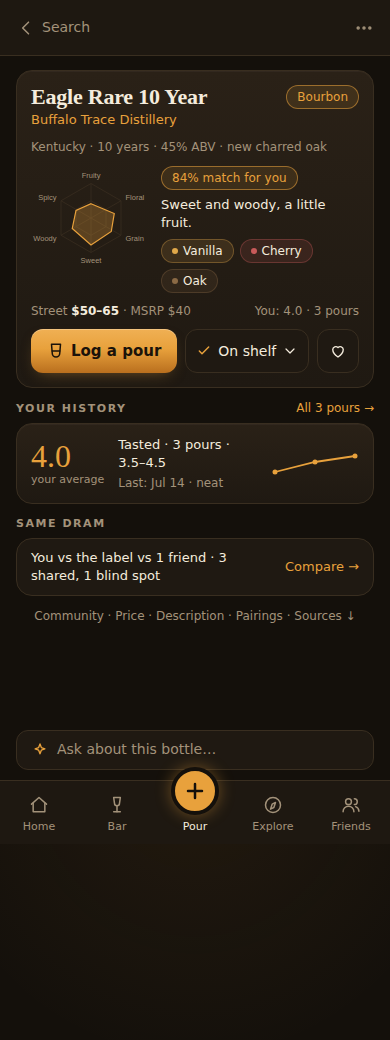
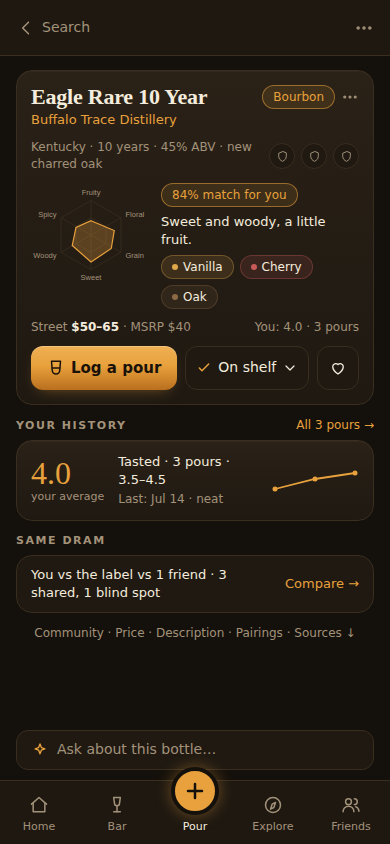
docs: round-3 UX brief with live vs storyboard screenshots; decisions D13–D21
Adds docs/plans/2026-09-ux-refinement-brief.md: the owner's third-pass
notes turned into per-area decisions, before/after screenshots (live
baselines beside storyboard boards) and action items with files and
acceptance for the implementing agent.

STORYBOARD.md §0 gains D13–D21 (profile order without "This month" or
greyed crests, breakdown-card ⋯ menu, Friends header/search redesign,
live camera in the pour sheet with auto-pause, the app's own wheel,
slider pour size, Friends as default visibility under More, a Tags row,
and My Bar kept but slimmed). Profile, pour sheet, Friends and bottle
boards re-rendered to match.

Claude-Session: https://claude.ai/code/session_01Jh9MtzXPHPHFKp7wZnEU3h

diff --git a/docs/STORYBOARD.md b/docs/STORYBOARD.md
@@ -24,6 +24,17 @@ The visual style does not change. DESIGN.md's tokens, recipes and rules all stan
 | D10 | **Explore is a dedicated tab**, and Home links to it. | (agreed with v1) |
 | D11 | **The palate ring on avatars has eight equal segments, one per flavor family, each faded toward the track when that family is not part of the person's palate.** Intensity is encoded by fade, not by segment length. | v2's first draft, which varied arc length |
 | D12 | **The profile shows the full two-tier palate wheel** (as today), with the ring avatar in its centre and the description and signature-descriptor chips beneath it. **"This month" stays on the Home dashboard as it is now**; it is not a profile block. | v2's first draft, which shrank the wheel and moved the month review to the profile |
+| D13 | **Profile order:** identity → palate card → **Sharing · Settings** → **Passport (earned crests only, no greyed "next")** → **Friends card** (several friends with ring avatars) → **Journal card** (one card, "Open journal →"). | D8's greyed next crests and the two-row journal summary |
+| D14 | **The bottle breakdown card has a ⋯ menu** for everything beyond Log a pour · Add to bar / On shelf · Wishlist: edit shelf details, mark finished, remove, share, compare, report a catalog error. Same menu behind the bottle page header ⋯. | — |
+| D15 | **Friends page:** no "Find people / How you're found" tabs. One search field with a **scan-code button at its end**; **Show my code** to the right of the "Friends" header (and on the profile's Friends card); **How you're found** behind a settings icon on Friends and under Profile → Settings → Privacy. | v2's first Friends board |
+| D16 | **The camera stays live in the pour sheet's bottle slot while you log** (thumbnail beside the bottle row once identified, so you can snap the glass or label) and **pauses automatically after ~2 minutes**. A captured photo attaches to the pour. | — |
+| D17 | **The flavor wheel in the sheet is the app's existing `FlavorWheelInput`, unchanged.** The board's wheel drawing is a stand-in. | the board's simplified wheel |
+| D18 | **Pour size keeps today's slider, made sleeker** (thinner track, smaller tick labels, value in the section label). | v2's chip row |
+| D19 | **Default pour visibility is Friends** for new accounts. "Who can see this" collapses under a **More ▾** disclosure at the bottom of the sheet. | Only me default; visibility as a top-level row |
+| D20 | **A Tags row sits directly under pour size** with quick-select tags (Campfire · Dinner · With friends · Tasting · …) plus "+ add". The free-text People field moves under More ▾ as "With…". Tags are private pour data stored in `pours.context.tags`. | the People chip in the serving row |
+| D21 | **My Bar keeps the live page's structure over the board's**, with these changes: a much slimmer top (compact stats line, flavor map collapsed to one line with "Open flavor map →"), a slimmer fill spine, a **Pour** quick action per row, plus sort and shelf search. First bottle visible without scrolling. | v2's Bar board as a whole |
+
+The round-3 brief with before/after screenshots and action items per area is [docs/plans/2026-09-ux-refinement-brief.md](./plans/2026-09-ux-refinement-brief.md).
 
 Open questions the owner has not decided (implementing agent: pick the recommended default, flag it in the PR):
 
@@ -137,9 +148,10 @@ The sheet opens **fully expanded** from ＋, from any Pour button, from the toni
 │        ╭────────╮                  │     tap a wedge → leaves; hold → intensity;
 │       │  wheel   │                 │     drag; the signature interaction
 │        ╰────────╯                  │
-│ Neat  Rocks  Splash  Cocktail  👤  │  5. SERVING + PEOPLE
-│ Pour size   15 · 25 · 30 · 45 · 60 │  6. SIZE (compact chips, not a slider headline)
-│ Who can see  🔒 Only me · Friends · Followers · Public │  7. VISIBILITY quick tags (D9)
+│ Neat  Rocks  Splash  Cocktail      │  5. SERVING
+│ Pour size · 45 ml  ──────●──────    │  6. SIZE — today's slider, sleeker (D18)
+│ Tags  Campfire · Dinner · With friends · +  │  7. TAGS quick-select (D20)
+│ More ▾  Who can see · Friends ▾ · With… · Photo │  8. MORE (visibility defaults to Friends, D19)
 ├────────────────────────────────────┤
 │ [        Save pour         ]       │  sticky footer; disabled until a bottle is set,
 │  Pick a bottle to save · Discard   │  with the reason shown inline
@@ -148,12 +160,13 @@ The sheet opens **fully expanded** from ＋, from any Pour button, from the toni
 
 Rules:
 - **Everything is visible; nothing is behind a disclosure.** The sheet scrolls; the footer is sticky.
-- **Order is bottle → rating → words → wheel → context → visibility.** The bottle slot is first because it is the one required thing, but it does not block anything below it: you can type, dictate, tap the wheel and rate with the slot still empty (D4). Save stays disabled with "Pick a bottle to save" until it is filled; ✕ or swipe-down with content keeps a draft (Q2).
+- **Order is bottle → rating → words → wheel (the app's own, D17) → serving → size → tags → More.** The bottle slot is first because it is the one required thing, but it does not block anything below it: you can type, dictate, tap the wheel and rate with the slot still empty (D4). Save stays disabled with "Pick a bottle to save" until it is filled; ✕ or swipe-down with content keeps a draft (Q2).
 - **Scan is the default way to fill the slot** (D5): the viewfinder is live as soon as the sheet opens (permission already granted) and about 150 px tall; a barcode hit or a confident label match fills the slot with a toast and an Undo; the text field is directly beneath for typing; recents are one tap. When a bottle is prefilled (Pour button, tonight card), the slot renders as a bottle row with **Change**.
 - **Scanning a bottle you don't own** swaps the slot for the **bottle breakdown** card (§3.4) with Log a pour / Add to bar / Wishlist / Just looking. "Log a pour" collapses it back to the filled slot and continues in the same sheet.
 - **One Save.** The sticky-header Save, the second "Save pour" and "Just drinking? Log without notes" go away. An unrated pour is allowed.
 - **After Save**: toast with Undo, sheet closes, you are where you were. The "Poured." page is deleted. Edit reopens the same sheet prefilled.
-- Pour size stays (it is useful data) but as a compact chip row below the wheel, never larger than the rating.
+- Pour size keeps its slider (D18), below the wheel and never larger than the rating. Tags (D20) sit directly under it; the People field and "Who can see this" live under More ▾ with Friends as the default (D19).
+- The camera keeps running in the bottle slot while you log and pauses after ~2 minutes (D16); a photo taken there attaches to the pour.
 
 ### 2.3 ＋ at a store (D6)
 
@@ -175,9 +188,9 @@ Each board: purpose · primary action · above the fold (390×844) · below the 
 - **States**: no bottles → one card: "Add your first bottle" (scan / type). Bottles but no pours → tonight card says "Pour it when you're ready". No friends → the friends module is absent (the invite lives in Friends).
 - **Guardrail**: the tonight reason is palate/occasion only; "only 15 % left — finish it before it fades" is removed. Low fill is a Bar fact.
 
-### 3.2 Bar
+### 3.2 Bar (D21: the live page's structure, slimmed)
 
-- **Purpose**: find a bottle you own and act on it.
+- **Purpose**: find a bottle you own and act on it. The live `/bar` page stays; the board shows only the parts to take from it: a top slim enough that the first bottle is visible without scrolling, a slimmer fill spine, a Pour action per row, sort and shelf search.
 - **Header row**: "My Bar · 47" · **+ Add** (opens a small sheet: **Scan your shelf** (batch, §3.9) · Type a name · Import).
 - **Above the fold**: control line `[Search your bar] Sort ▾ Filter` → segmented **Bar · Wishlist · Tasted** (Tasted derived from pours) → the shelf list.
 - **Row**: fill spine · name · distillery · top three flavor chips · your rating + pour count · a **Pour** button. Tapping the rating/pour count opens `/history?bottleId=` (D9).
@@ -190,16 +203,16 @@ Each board: purpose · primary action · above the fold (390×844) · below the 
 ### 3.4 Bottle breakdown card (new; D6)
 
 `<BottleBreakdown>` — the "what is this, and what is it to me?" card:
-- Name (Fraunces 22), distillery, category chip, origin · age · ABV · cask, crests at 34 px.
+- Name (Fraunces 22), distillery, category chip, origin · age · ABV · cask, and the bottle's **passport crests** (country · region · style, `BottleStamps`) at 34 px.
 - Mini flavor radar (~110 px) with the palate-match chip and one sentence ("Sweet and woody, a little fruit").
 - Price as a range with source label; your history line if any; the passport hook ("opens Islands · you've met 3 of 6 Scotch regions").
-- Actions: `[Log a pour]` primary · `Add to bar` · `♡ Wishlist` · "Just looking" text link. If already on the shelf: `On your shelf ▾` (Edit details · Remove) replaces Add.
+- Actions: `[Log a pour]` primary · `Add to bar` · `♡ Wishlist` · "Just looking" text link. If already on the shelf: `On shelf` replaces Add. A **⋯** in the card corner holds the rest (D14): edit shelf details · mark finished · remove · share · compare · report a catalog error.
 - Shown: in the pour sheet after a scan or search pick; as the top block of the bottle page; after a pick in Explore search.
 
 ### 3.5 Bottle page
 
 - **Above the fold**: the breakdown card (§3.4) with its action bar sticky.
-- **Below**: Your history (average, sparkline, last three, "All N pours →" deep-linking the journal) → Same Dram + Compare → community rating (≥ 3 public raters only) → description → pairings → sources and reviews last → "Ask about this bottle".
+- **Below**: Your history (average, sparkline, last three, "All N pours →" deep-linking the journal) → Same Dram as one clean sentence + Compare → community rating (≥ 3 public raters only) → description → pairings → sources and reviews last → "Ask about this bottle".
 - Shelf details (fill, paid, store, location, notes) open as a sheet from "Edit details". Fill auto-decrements on pours and the sheet says so.
 - **Not here**: sources above the fold; an inline edit form; a standalone "I've tried it" button (Tasted is derived).
 
@@ -216,11 +229,8 @@ Keep the current page's structure and copy; condense the identity row and make t
 - **Identity row (condensed)**: name (Fraunces 22) with @handle · bio · location on one muted line beneath; Edit (own) or Follow / Following · Follows you · ⋯ and the match chip (others). No separate avatar here: the avatar is inside the wheel.
 - **Palate card**: the **full two-tier palate wheel** (D12) at ~290 px, families inside, all ~55 leaves outside, heat as opacity. In its centre, the **palate ring avatar** at ~88 px. Beneath the wheel: the label "Your palate · from N rated pours", the one-line description ("Sweet and fruity, warming up to peat. Almost nothing floral yet."), and the **signature descriptor chips** (up to six, wedge-coloured).
 - **No "This month" block**: the month review belongs to the Home dashboard (D12).
-- **Passport summary**: heading "Passport · 5 countries · 3 regions · 4 badges" → one row of crests: earned first, then **the next two or three unearned greyed** (dashed frame, no numeral) → "View passport →".
-- **Journal summary** (own view: all pours; public: recent public notes): three compact rows → "View journal →".
-- **Friends summary**: avatars row (palate rings) + "Following 1 · Followers 1" → "Find people →".
-- **Sharing** (own): shared links count, default visibility → the existing controls.
-- **Settings** (own): account · sign out · rating scale · units · privacy · export · delete.
+- **Then, in order (D13):** the **Sharing · Settings** row directly under the palate card → **Passport** (earned crests only, "View passport →") → **Friends card** (up to four friends with ring avatars, handle and match chip; "Show my code" and "Find people →") → **Journal card** (count, last pour, "Open journal →").
+- **Sharing** (own): shared links count, default visibility → the existing controls. **Settings** (own): account · sign out · rating scale · units · privacy (incl. how you're found) · export · delete.
 - **Palate ring avatar** is a shared component used wherever an avatar appears (header, comments, friends, feed) at 28–96 px. Ring = 3–5 px stroke, **eight equal segments** in `flavor-wheel.ts` wedge colours with small gaps; each segment's opacity follows that family's share of the palate vector, from a faint track (~12 %) when absent to full colour at the peak (D11). No ring until the palate has ≥ 3 rated pours; the track alone renders before that.
 
 ### 3.8 Journal (`/history`; D9)
@@ -237,7 +247,7 @@ Reached from Bar → + Add. Redesigned viewfinder-first: the camera fills the sc
 
 ### 3.10 Friends (tab)
 
-The existing `/friends` page minus the profile card (the profile is in the header): Find people (handle / phone / QR) · following · followers · requests · the full "From your friends" feed (Q4) · comparisons you've opened.
+Header row: "Friends" · **Show my code** · settings icon (opens **How you're found**, the existing discovery settings, as a sheet). One search field "@handle or phone number" with the **scan-code** button at its trailing edge (D15). Then Following / Followers / Requests, then the full "From your friends" feed (Q4).
 
 ### 3.11 Compare, Note discussion, Learn — unchanged. These remain the reference compositions.
 

diff --git a/docs/plans/2026-09-ux-refinement-brief.md b/docs/plans/2026-09-ux-refinement-brief.md
@@ -1,0 +1,151 @@
+# UX refinement brief — owner notes, round 3 (2026-09-03)
+
+**For the implementing agent.** This is the owner's third pass over the storyboard, turned into decisions and action items with the pictures you need beside them. Read [docs/STORYBOARD.md](../STORYBOARD.md) §0 first (decisions D1–D21 are binding); this brief adds the *why* and the *before/after* for each area. Screenshots on the left are the **live app** (the committed visual baselines under `e2e/__screenshots__/visual-mobile/`); on the right are the **storyboard boards** (`docs/storyboard/`). Where the owner preferred the live app over the board, the brief says so and the board is the one that changes.
+
+Conventions: every item ships with route/component tests and regenerated baselines (DESIGN.md workflow). Finding IDs in brackets point at [docs/REVIEW_2026-09.md](../REVIEW_2026-09.md).
+
+---
+
+## 1. Profile
+
+**Owner:** "Love the integrated look. Friends can be more of a card showing several friends. Sharing and settings could be right below the profile card. This month can be removed. I like the passport section, but no need for the 'next'. Journal pours seems a bit weird — put that after friends and just put the full journal card."
+
+| Live app (`/u/[handle]`) | Storyboard (target) |
+|---|---|
+| ![live profile](../../e2e/__screenshots__/visual-mobile/profile.png) | ![storyboard profile](../storyboard/profile.png) |
+
+**Decisions (D12, D13):** block order is identity row → **palate card** (full two-tier wheel, ring avatar in the centre, description and signature chips beneath) → **Sharing · Settings** row → **Passport** (earned crests only, "View passport →") → **Friends card** (several friends with ring avatars, names, match %) → **Journal card** (one card: count, last pour, "Open journal →"). No "This month" block; no greyed "next" crests.
+
+**Action items**
+- [ ] `src/app/u/[handle]/page.tsx`: reorder blocks as above; remove the month-in-review import if any; the public view drops Sharing/Settings.
+- [ ] New `<PalateRingAvatar>` component (`src/components/palate-ring-avatar.tsx`): eight equal segments in `flavor-wheel.ts` wedge colours, opacity ∝ family share of `user.palateProfile`, faint track when absent, no ring under 3 rated pours. Use it in the header, comments, friends, feed.
+- [ ] Palate card: the existing `FlavorWheel` (display mode) with the avatar absolutely positioned at the centre; description sentence from the palate summary; chips from `signatureLeafIds`.
+- [ ] `PassportBadgesSection`: earned crests only on the profile; the "next" logic stays available for `/passport`.
+- [ ] Friends card: up to 4 avatars with handle and match chip, "Find people →".
+- [ ] Journal card: pour count, last pour name/date/rating, "Open journal →" to `/history`.
+- **Acceptance:** profile fits in ~2 viewports; no "This month"; no greyed crests; Sharing and Settings visible directly under the palate card.
+
+---
+
+## 2. Tasting journal — filtering
+
+**Owner:** approved as specified.
+
+| Live app (`/history`) | Storyboard (target, filtered by bottle) |
+|---|---|
+| ![live journal](../../e2e/__screenshots__/visual-mobile/history.png) | ![storyboard journal](../storyboard/journal.png) |
+
+**Decision (D9):** keep the existing card design; add the filter line (Bottle · Rating · Month · Visibility) with `?bottleId=` pre-selecting a clearable chip; per-row ⋯ (Edit · Share link · Visibility · Delete with undo); remove the stacked visibility chip + Share button from the card body; keep a quiet "Shared with friends" label when not private.
+
+**Action items**
+- [ ] `src/app/history/page.tsx` + `history-timeline.tsx`: filter line; read `bottleId`, `rating`, `month`, `visibility` from search params; `listPours` gains the extra filters.
+- [ ] Row ⋯ menu wired to `PATCH`/`DELETE /api/pours/[id]` [UX-5]; Edit opens the pour sheet prefilled; Delete → toast with Undo.
+- [ ] Deep links: bottle page "All N pours →", Bar row pour count, profile Journal card.
+
+---
+
+## 3. Bottle card — the ⋯ menu
+
+**Owner:** "bottle card refinements — ⋯ menu."
+
+**Decision (D14):** the bottle breakdown card (§3.4 of the storyboard) keeps three visible actions (Log a pour · Add to bar / On shelf · Wishlist) and moves everything else behind a **⋯** in the card's corner: Edit shelf details · Mark finished · Remove from bar · Share bottle · Compare · Report a catalog error. On the bottle page the header ⋯ is this same menu.
+
+**Action items**
+- [ ] `<BottleBreakdown>` gets a `menu` slot; `shelf-details.tsx` opens as a sheet from "Edit shelf details".
+- [ ] Remove from bar confirms with an undo toast [UX-5].
+
+---
+
+## 4. Friends page
+
+**Owner:** "'Find people' and 'How you're found' can be modified. 'Scan a code' moves into a button at the end of the search bar. 'Show my code' is shown in the profile and to the right of the Friends header. 'How you're found' becomes a settings entry on the Friends screen, and is in the profile page too."
+
+| Live app (`/friends`) | Storyboard (target) |
+|---|---|
+| ![live friends](../../e2e/__screenshots__/visual-mobile/friends.png) | ![storyboard friends](../storyboard/friends.png) |
+
+**Decision (D15):** no segmented control. Header: "Friends" · **Show my code** button · a settings (sliders) icon that opens "How you're found" (the existing `DiscoverySettings`). One search field "@handle or phone number" with a **scan-code** button inside its trailing edge. Below: Following / Followers / Requests, then the full friends feed. "Show my code" also appears on the profile (Friends card) and "How you're found" also lives under Profile → Settings → Privacy.
+
+**Action items**
+- [ ] `src/app/friends/friends-client.tsx`: remove the tabs; header actions; move `QrScanButton` into the input's trailing slot; `FriendQr` behind "Show my code"; `DiscoverySettings` behind the gear (sheet).
+- [ ] Profile Friends card: "Show my code" link; Settings → Privacy: discoverability toggles.
+
+---
+
+## 5. Log a pour sheet
+
+**Owner:** "I like the new sheet. The photo can be integrated up there, and on while you log your pour, pausing after a minute or two. The flavor wheel in the mock-up is off — keep what we have in the app. I don't like pour size as chips — keep today's control, a bit sleeker. Default to allowing friends to see pours. Move the people part; collapse 'who can see this' into a 'more' and add a 'tags' section right beneath pour size with quick tags like campfire, dinner, with friends."
+
+| Live app (`/pour`, rate step) | Storyboard (sheet, filled) |
+|---|---|
+| ![live pour](../../e2e/__screenshots__/visual-mobile/pour-step-rate.png) | ![storyboard pour](../storyboard/pour-filled.png) |
+
+| Live app (`/pour`, note capture) | Storyboard (sheet, before a bottle) |
+|---|---|
+| ![live note capture](../../e2e/__screenshots__/visual-mobile/pour-note-capture.png) | ![storyboard pour empty](../storyboard/pour-empty.png) |
+
+**Decisions (D16–D20):**
+- **D16 Camera stays live in the bottle slot while you log.** After a bottle is identified the viewfinder shrinks to a thumbnail strip beside the bottle row and keeps running so you can snap the glass or the label; it **pauses automatically after ~2 minutes** (tap to resume). A captured photo attaches to the pour.
+- **D17 The flavor wheel is the app's existing `FlavorWheelInput`**, unchanged (tap a wedge → leaves, hold → intensity, drag). The board's wheel drawing is a stand-in and must not be copied.
+- **D18 Pour size keeps today's slider**, made sleeker: thinner track, tick labels at 12 px, the value inline in the section label ("Pour size · 45 ml"), no separate headline.
+- **D19 Default visibility is Friends.** `userSocialPrefs.defaultPourVisibility` defaults to `friends` for new users (existing users keep their setting); "Who can see this" moves under a **More ▾** disclosure at the bottom of the sheet together with anything rarely changed.
+- **D20 Tags replace the People field.** A **Tags** row sits directly under pour size: quick-select chips (Campfire · Dinner · With friends · Tasting · Cocktail hour · Gift · Sample …) plus "+ add". Free-text people/companions move into More ▾ as "With…". Tags are stored on `pours.context.tags: string[]`, are filterable in the journal, and are private data (they never appear in a social projection unless the pour is shared, and even then "with friends" is the only one that reads socially).
+
+**Action items**
+- [ ] Sheet component per STORYBOARD §2.2 with the section order bottle → rating → words → N/P/F + wheel → serving → **size (slider)** → **tags** → **More ▾** (who can see · with · notes).
+- [ ] `pour-size-picker.tsx`: slimmer track and labels; value in the label.
+- [ ] `pourInputSchema` (`src/lib/pours.ts:40`): `context.tags` as `z.array(z.string().max(24)).max(8)`; journal filter by tag.
+- [ ] Default visibility: schema default for `defaultPourVisibility` → `friends`; onboarding copy says so; the "Make everything private" reset still flips it to private.
+- [ ] Camera: `useScanEngine` exposes `pause()`/`resume()`; auto-pause timer at 120 s; photo capture → `pours.photoUrl` once media storage exists (PLAN.md §4.6); until then keep the capture local and behind a feature flag.
+- **Acceptance:** nothing from today's pour page is missing; rating is directly under the bottle; size is a slider; tags row present; visibility default Friends for a new account; sheet returns to origin with an undo toast.
+
+---
+
+## 6. My Bar
+
+**Owner:** "I like the current page better than the recommendation. I like the fill level slimmer. The header and such needs to be a lot more slim — it's like two full scrolls until you get to your bottles. I also like the Pour quick action from the mock-up."
+
+| Live app (`/bar`) | Storyboard (parts to take) |
+|---|---|
+| ![live bar](../../e2e/__screenshots__/visual-mobile/bar-own.png) | ![storyboard bar](../storyboard/bar.png) |
+
+**Decision (D21):** keep the live page's structure (filter bar, stats, flavor map, list) rather than the board's. Changes: **slim the top** so the first bottle is within the first viewport — stats become one compact line, the flavor map collapses to a one-line summary with "Open flavor map →" (expanding in place or to its own view), the 15-chip legend goes with it; the **fill spine gets slimmer** (3 px); each row gets the board's **Pour** quick action; sort and shelf search from the board are still wanted.
+
+**Action items**
+- [ ] `bar-client.tsx`: collapse the flavor-map block by default (persist the choice); compact stats line; sort control + shelf search; `QuickPourButton` per row; `fill-spine.tsx` width 3 px.
+- [ ] Reduce `bar/page.tsx` queries per REL-2.9 while here.
+- **Acceptance:** first bottle row visible without scrolling on 390×844 with the map collapsed.
+
+---
+
+## 7. Bottle details
+
+**Owner:** "A million times better than the current one. Missing the badges that belong to it. Love the history and the compare, but compare can be cleaned up."
+
+| Live app (`/bottles/[id]`) | Storyboard (target) |
+|---|---|
+| ![live bottle](../../e2e/__screenshots__/visual-mobile/bottle-detail-owned.png) | ![storyboard bottle](../storyboard/bottle.png) |
+
+**Decisions:** adopt the board. Add the bottle's **passport crests** (country · region · style, `BottleStamps`) to the breakdown card under the meta line. Keep "Your history" (average, sparkline, last pours, "All N pours →"). **Same Dram / Compare** becomes one clean row: a single sentence ("You vs the label vs 1 friend · 3 shared · 1 blind spot") and "Compare →"; the detailed buckets live on `/bottles/[id]/compare`.
+
+**Action items**
+- [ ] `<BottleBreakdown>` includes `BottleStamps` at 34 px.
+- [ ] `same-dram.tsx`: compact summary variant for the bottle page.
+- [ ] Sources, pairings, description below; `generateMetadata` [REL-6.5].
+
+---
+
+## 8. Order of work for these refinements
+
+1. Pour sheet (§5) — the core experience; includes tags, default visibility, slider, live camera.
+2. Bottle breakdown card + bottle page (§3, §7).
+3. Journal filters and ⋯ menu (§2).
+4. My Bar slimming + Pour action (§6).
+5. Profile (§1) and the ring avatar.
+6. Friends page (§4).
+
+## 9. Interpretations to confirm in the PR description
+
+- "Bottle card ⋯ menu" was read as the breakdown card's overflow (§3). If the owner meant the Bar row's overflow, add a row ⋯ with Pour · Edit details · Mark finished · Remove.
+- Photo capture depends on media storage (PLAN.md §4.6); ship the live camera and auto-pause now, store the photo once storage exists.
+- Tags are free-form strings with a curated starter set; no taxonomy yet.
